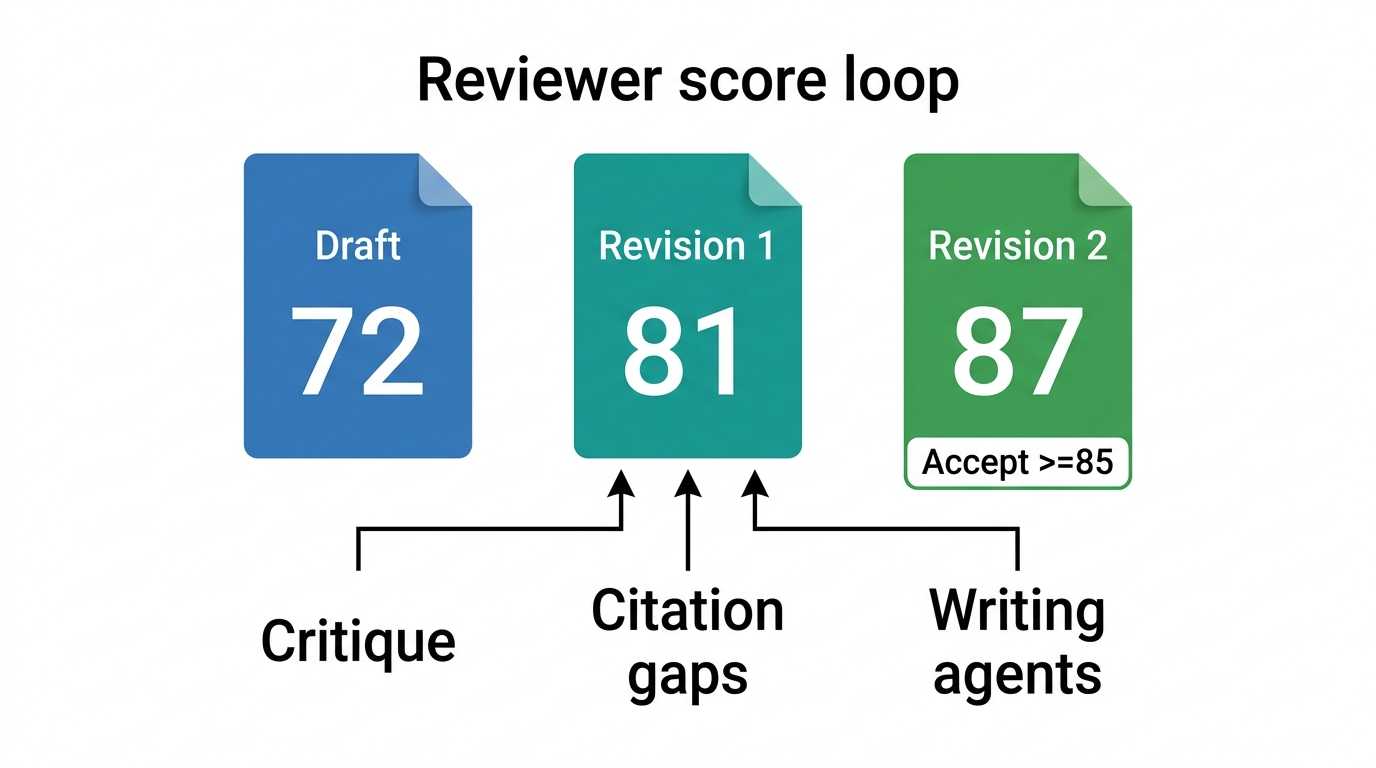
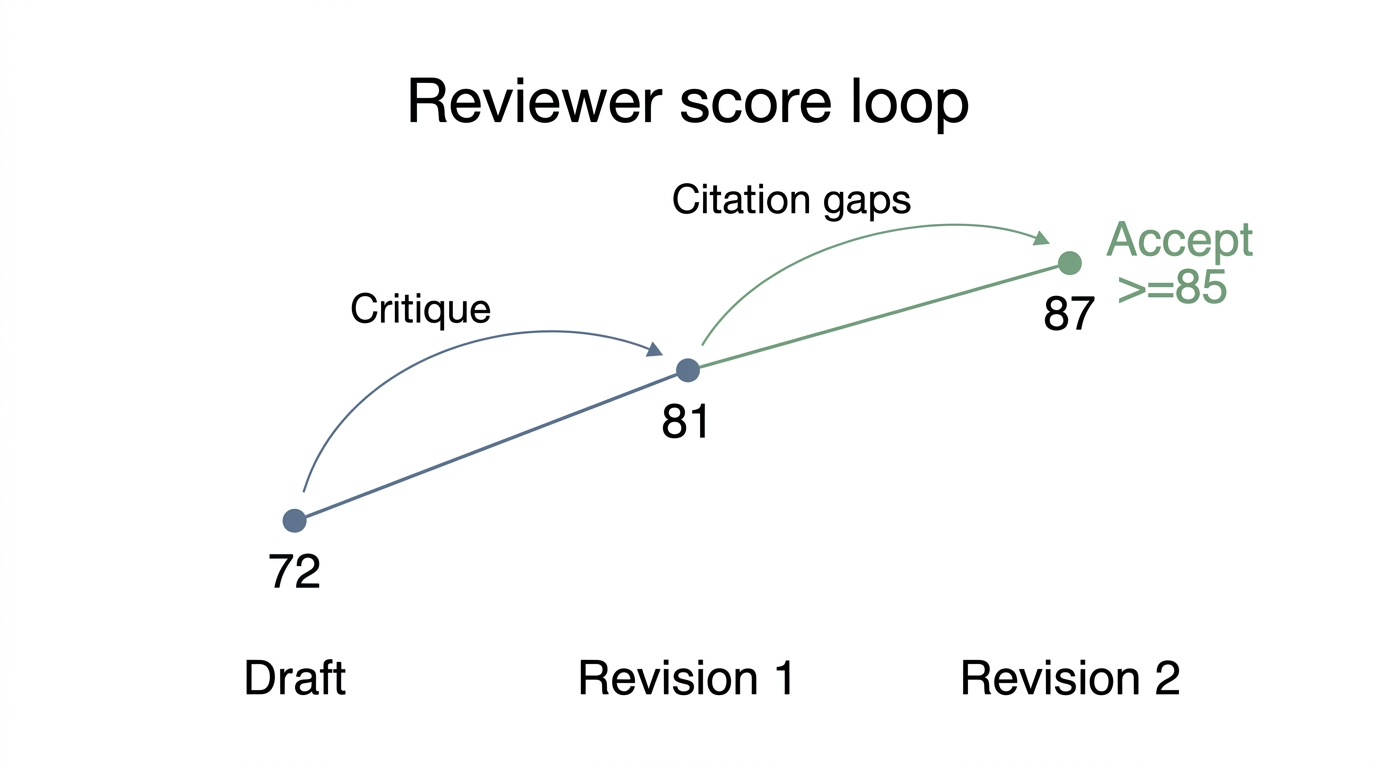
Improve demo figure aesthetics for paper use
Replace the first generated demo figures with more restrained academic-style visuals: thinner strokes, larger labels, fewer icons, muted colors, and more whitespace. The reviewer-loop figure was regenerated as a sparse slope-chart/process hybrid, and the generation log now records the aesthetic regeneration.

Constraint: User rejected the earlier generated figures as visually unsuitable for academic paper demos.

Rejected: Keep cartoon-style icon diagrams | they weaken the top-tier paper-writing demonstration.

Confidence: high

Scope-risk: narrow

Tested: visually inspected all three regenerated figures; verified JPEG signatures and sizes; git diff check; public/internal boundary scan clean; local-only tracked-file check empty.

diff --git a/demo/IMAGEGEN_USAGE.md b/demo/IMAGEGEN_USAGE.md
@@ -15,4 +15,4 @@
 - `demo/figures/generated/fig_02_score_loop.jpg`
 - `demo/figures/generated/fig_03_section_artifacts.jpg`
 
-生成模型：`gemini-3.1-flash-image-preview`。第三张图经过一次视觉审查后重试，原因是第一次输出含有伪文本。
+生成模型：`gemini-3.1-flash-image-preview`。三张图已按更克制的学术审美重生成；重点是短标签、细线箭头、留白和 muted palette，避免上一版的卡通感与伪文本。